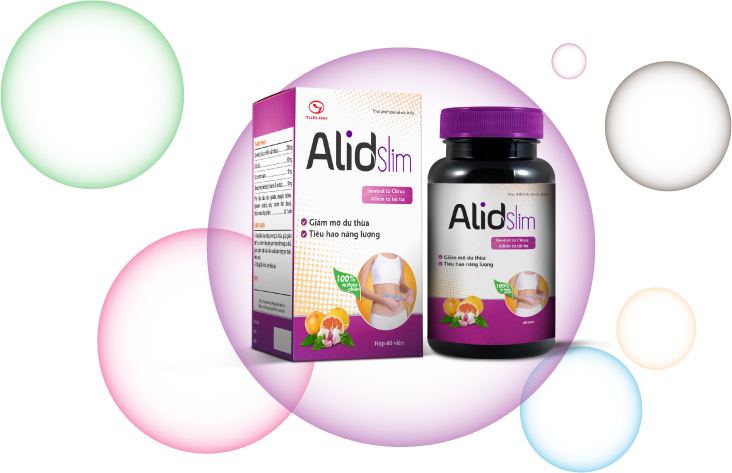
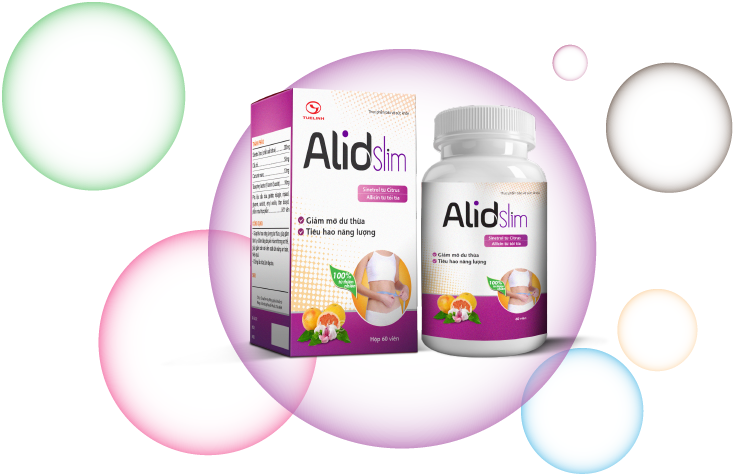
update

diff --git a/public/frontend/css/alid.css b/public/frontend/css/alid.css
@@ -809,7 +809,7 @@ section, header, footer {
 .boxPromo .col {
   position: absolute;
   top: 0;
-  padding-top: 150px;
+  padding-top: 85px;
   width: 100%;
 }
 .boxPromo .col .col-01 {
@@ -1022,7 +1022,7 @@ section, header, footer {
   margin: -14px 0 0 -14px;
 }
 .boxMedia .item h3 {
-  min-height: 45px;
+  min-height: 50px;
 }
 .boxMedia .item h3 a {
   color: #666;
